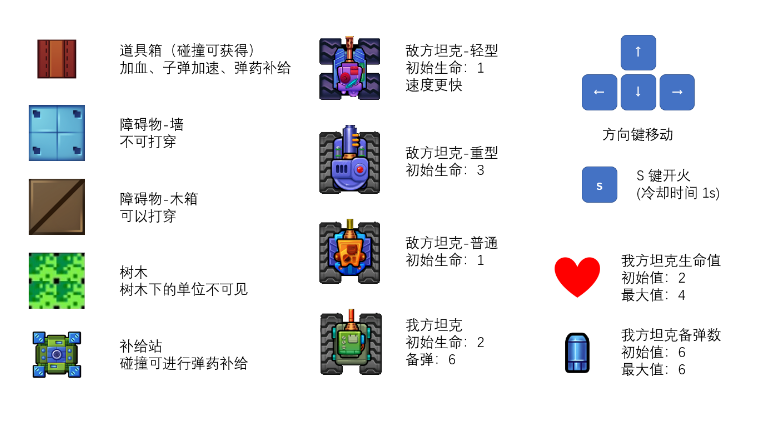
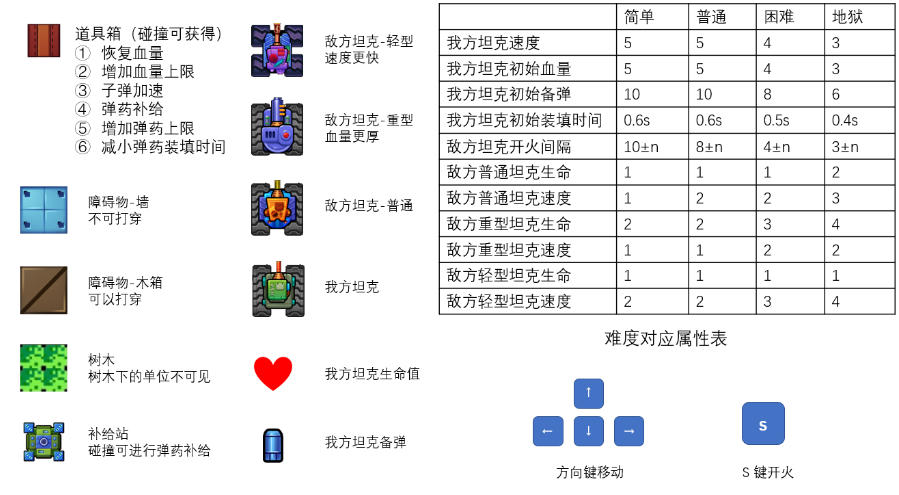
更新游戏介绍

diff --git a/src/main/java/group/view/GamePanel.java b/src/main/java/group/view/GamePanel.java
@@ -241,13 +241,13 @@ public class GamePanel extends JPanel implements Runnable {
             introShow = true;
             tempStop = true;
             this.setVisible(true);
-            this.setBounds(800, 0, 800, 500);
+            this.setBounds(800, 0, 920, 550);
             this.setTitle("游戏介绍 (显示时游戏暂停)");
 
             Container container = this.getContentPane();
 
 
-            label.setSize(800, 500);
+            label.setSize(900, 500);
             container.add(label);
 
             label.setHorizontalAlignment(SwingConstants.CENTER);
